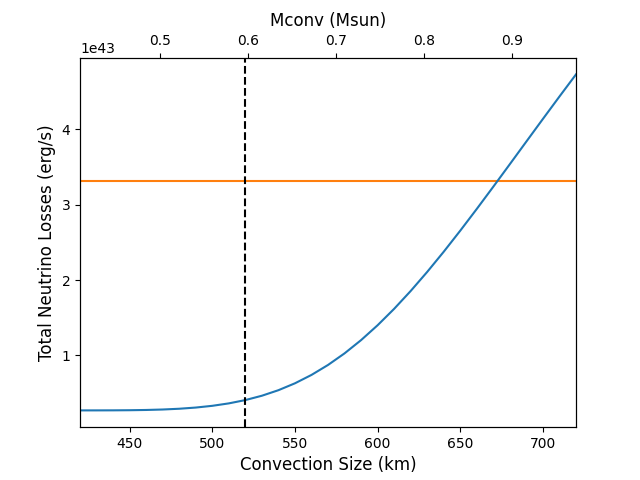
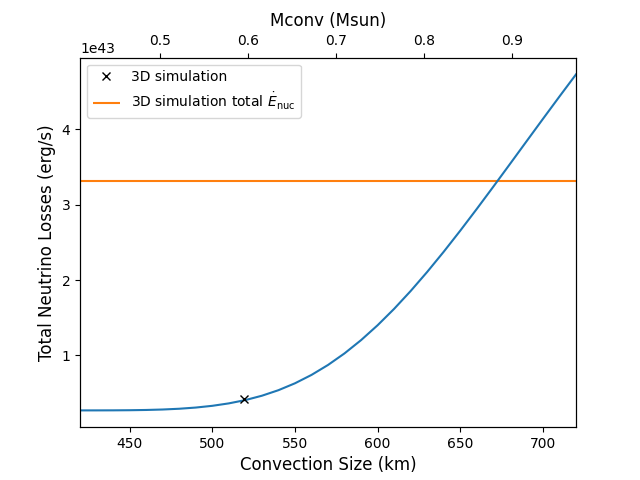
update some plotting

Changed region(s): [[0.1562, 0.125, 0.4688, 0.25], [0.375, 0.8125, 0.4062, 0.8438]]

diff --git a/calc_nu_loss.py b/calc_nu_loss.py
@@ -33,14 +33,17 @@ def plot_nu_losses(rad_arr, Rconv_arr, nu_loss_arr, ratio_arr, sample=4):
             pass
 
         else:
-            ax.plot(rad_arr, nu_loss_arr[i, :]/(rad_arr[1] - rad_arr[0]), color=curr_color, label=f"Radius: {Rconv:0.0f} km. ratio={ratio_arr[i]:0.1f}")
+            rconv_str="$R_\\mathrm{conv}$"
+            ax.plot(rad_arr, nu_loss_arr[i, :]/(rad_arr[1] - rad_arr[0]),
+                    color=curr_color, 
+                    label=f"{rconv_str}: {Rconv:0.0f} km. ratio={ratio_arr[i]:0.1f}")
 
     # plot real sim data
     left, right = ax.set_xlim(0., np.max(Rconv_arr))
 
     sim_nuloss = np.load("nuloss.npy")
     sim_rad = np.load("radius.npy")/1e5
-    ax.plot(sim_rad, sim_nuloss/(sim_rad[1] - sim_rad[0]), 'k--', label='sim avg. ratio=9ish')
+    ax.plot(sim_rad, sim_nuloss/(sim_rad[1] - sim_rad[0]), 'k--', label='sim avg. ratio = ~9')
 
     ax.set_xlim(left, right)
 
@@ -99,7 +102,9 @@ if __name__ == "__main__":
     fig, ax = plot_results(Rconv_arr, Mconv_arr,
                            sum_nu_arr,
                            ylabel='Total Neutrino Losses (erg/s)')
-    ax.hlines(3.32e43, *ax.get_xlim(), colors='tab:orange', zorder=-1)
+    ax.plot(519, 4.18e42, 'x', color='k', label='3D simulation')
+    ax.hlines(3.32e43, *ax.get_xlim(), colors='tab:orange', label='3D simulation total $\\dot{E}_\\mathrm{nuc}$',zorder=-1)
+    ax.legend()
 
     fig.savefig("nuloss_vs_rconv.png")
 

diff --git a/calc_optimal_ratio_v_Rconv.py b/calc_optimal_ratio_v_Rconv.py
@@ -147,7 +147,7 @@ def plot_results(Rconv, Mconv, ratio,
     ax.set_ylabel(ylabel, fontsize='large')
 
     bot, top = ax.get_ylim()
-    ax.vlines(520, bot, top, linestyles='--', colors='k')
+    #ax.vlines(520, bot, top, linestyles='--', colors='k')
     ax.set_ylim(bot, top)
     ax.set_xlim(Rconv[0], Rconv[-1])
 
@@ -197,6 +197,8 @@ if __name__ == "__main__":
         out_ratio_arr[i] = curr_ratio
 
     fig, ax = plot_results(Rconv_arr, Mconv_arr, out_ratio_arr)
+    ax.plot(519, 9, 'x', color='k', label='3D simulation')
+    ax.legend()
     fig.savefig("ratio_vs_rconv.png")
 
     # save the arrays
